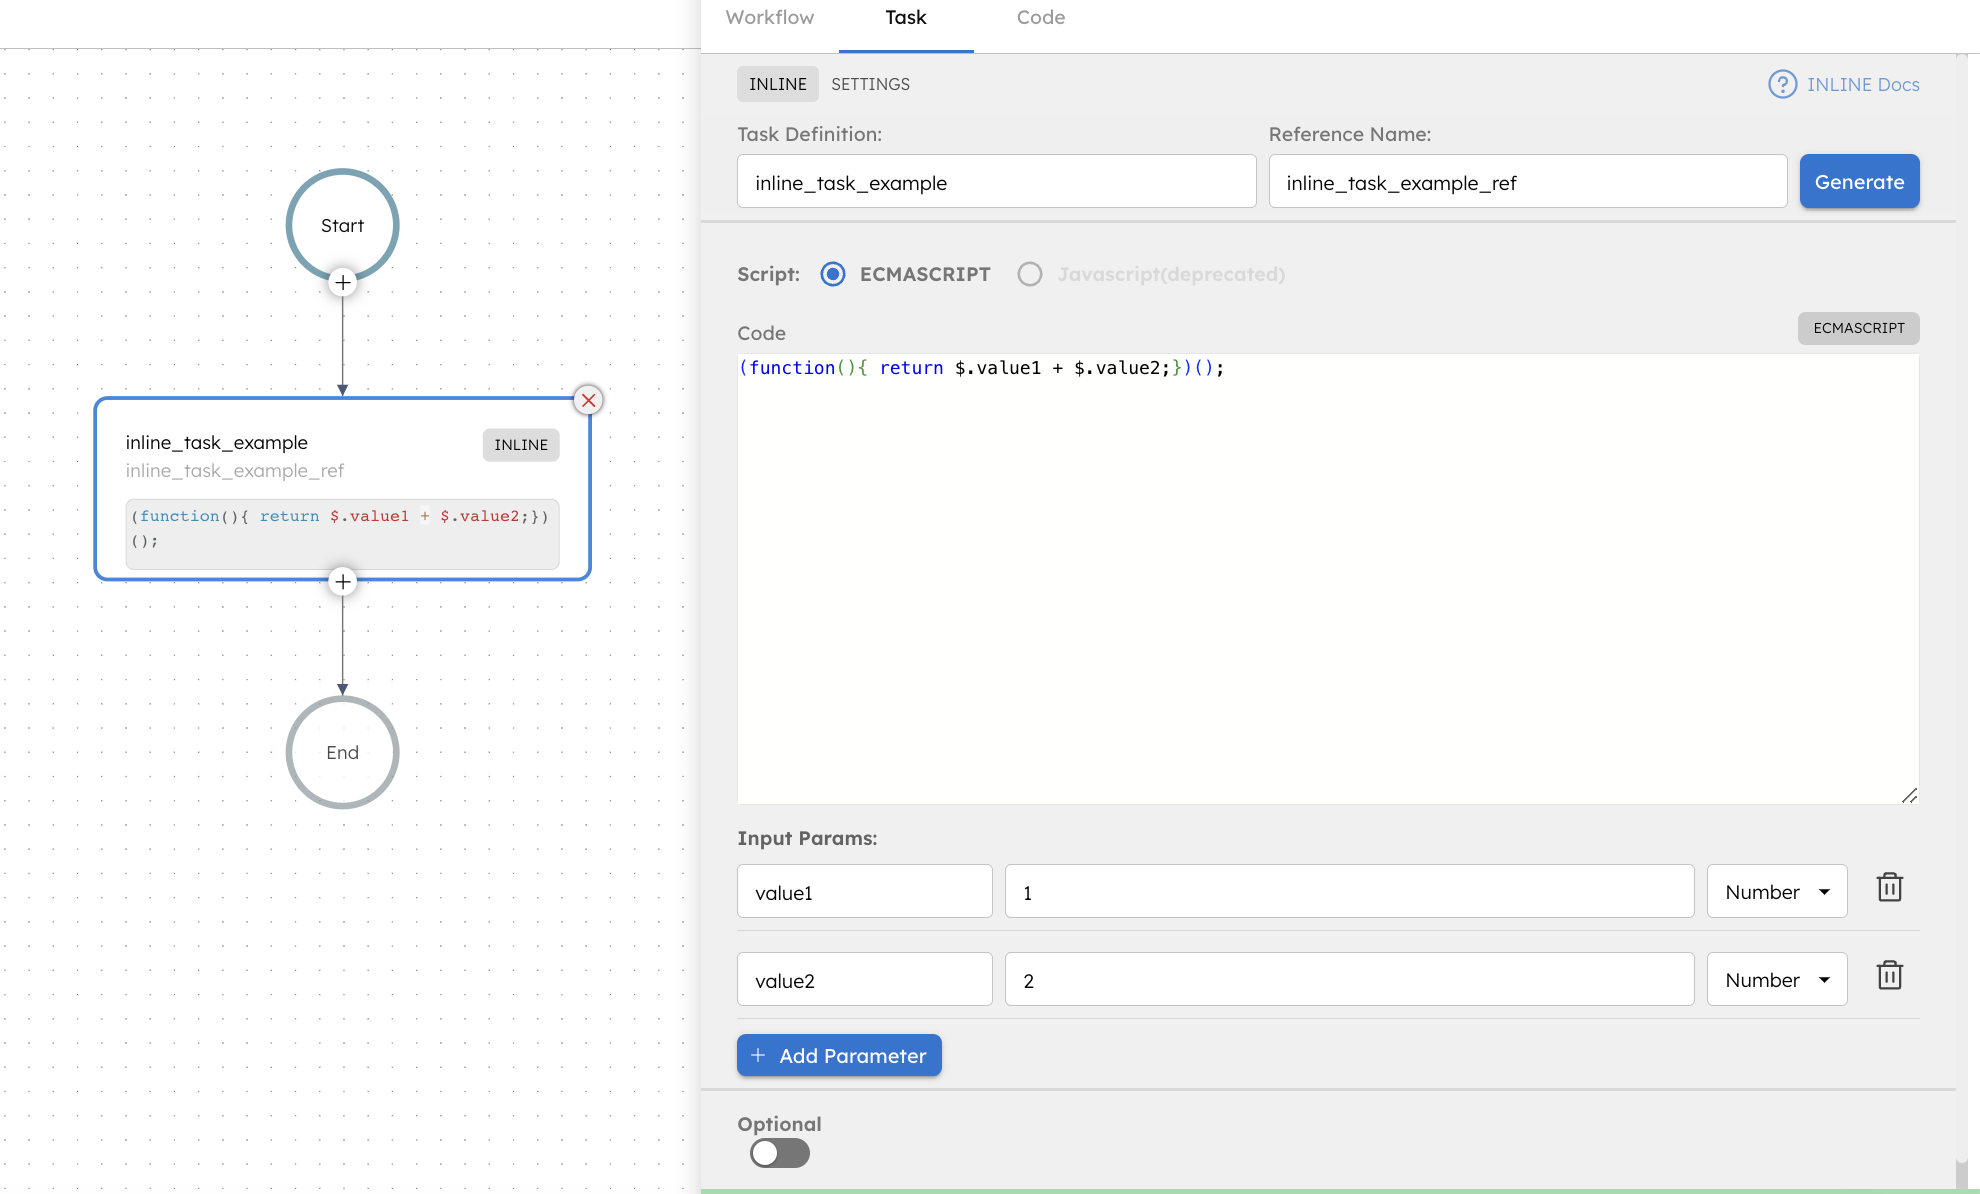
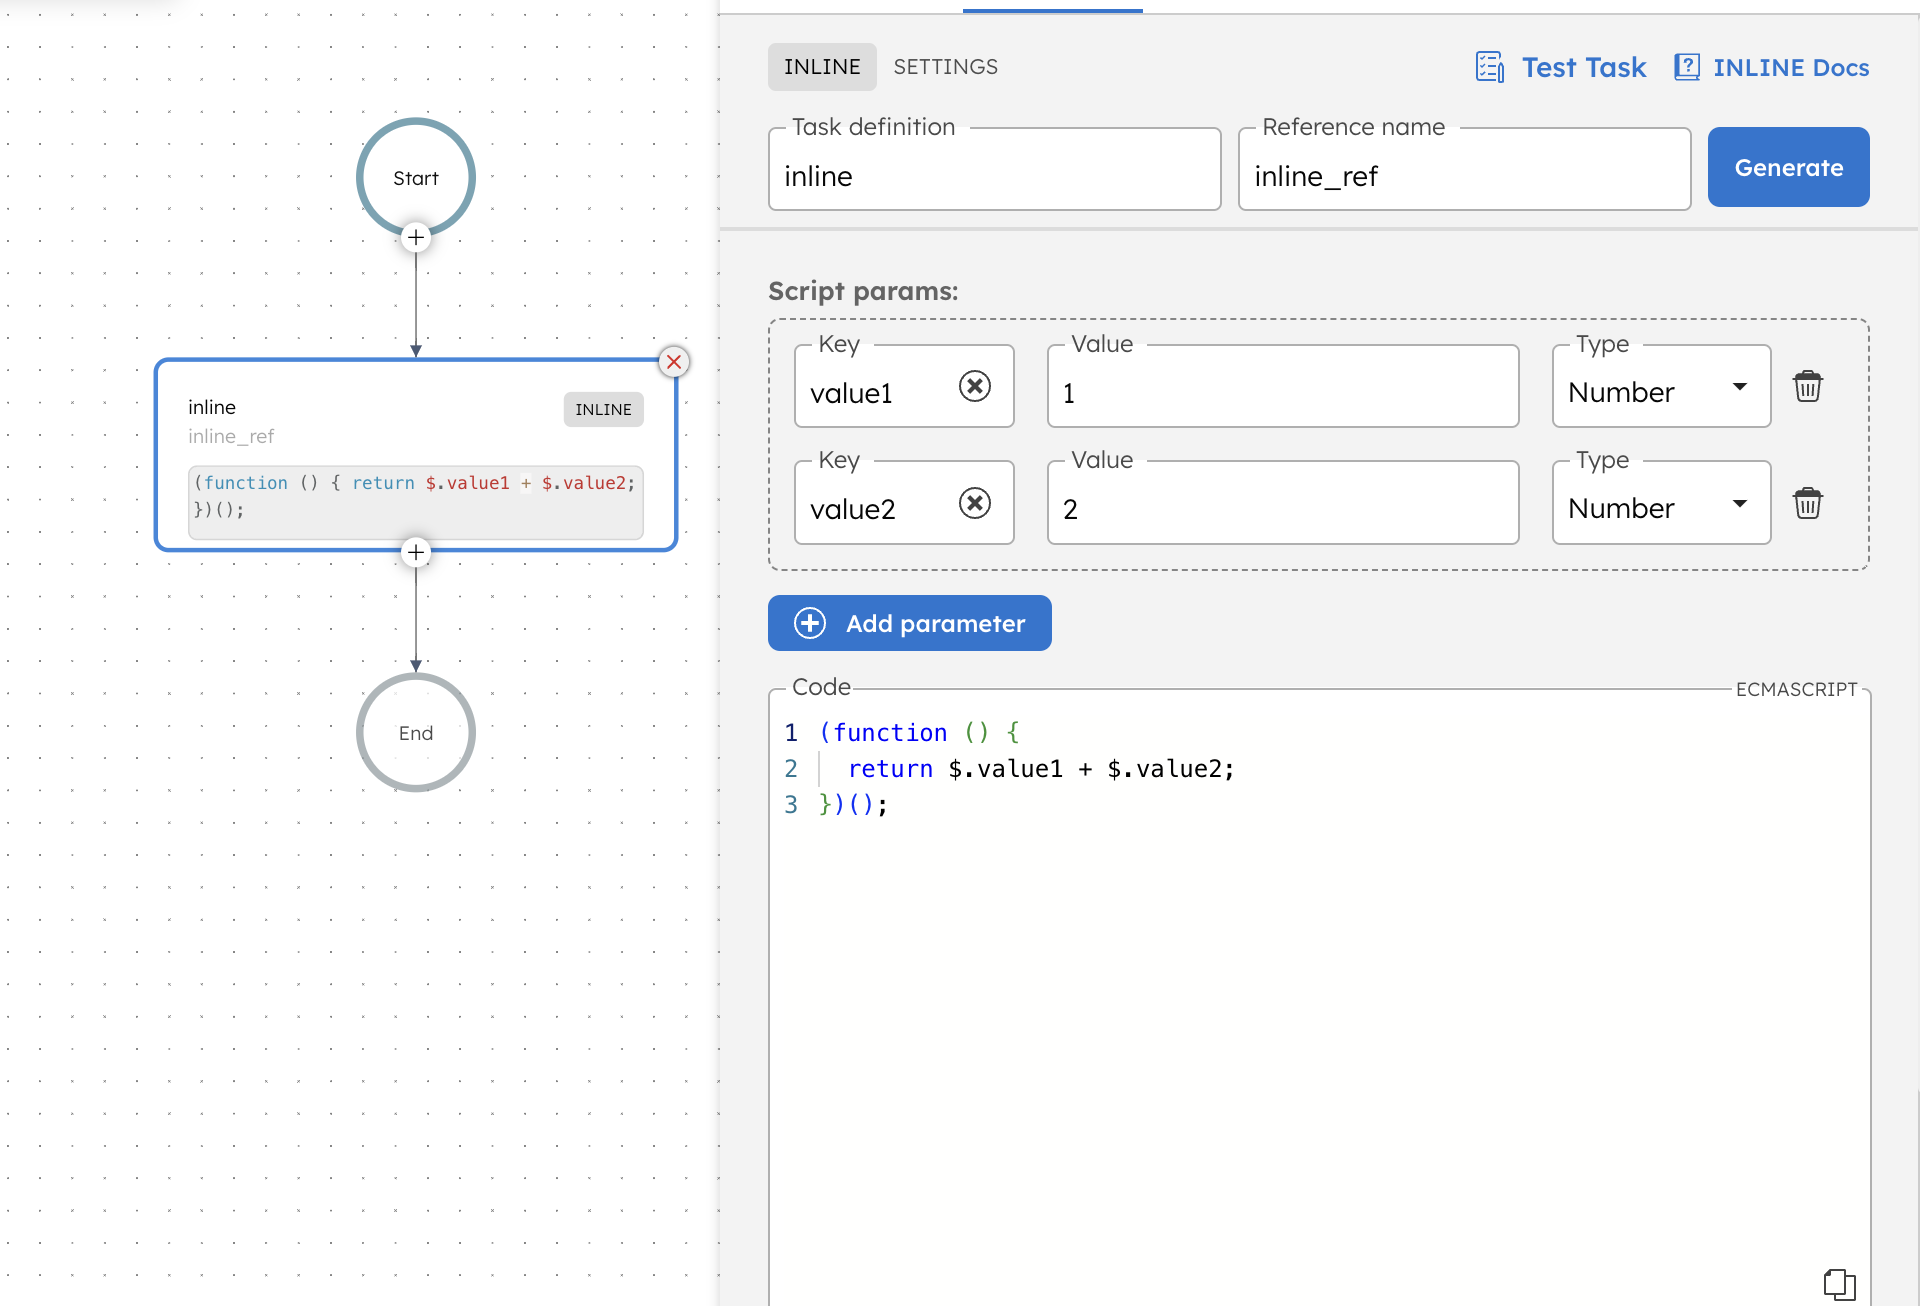
Inline doc update

diff --git a/docs/reference-docs/system-tasks/inline.md b/docs/reference-docs/system-tasks/inline.md
@@ -7,31 +7,36 @@ import TabItem from '@theme/TabItem';
 
 # Inline 
 
-The inline task helps execute necessary logic at the workflow run-time using an evaluator. The two supported evaluator types are javascript and graaljs.
+Inline tasks enable the execution of essential logic during workflow runtime by evaluating a JavaScript expression using an evaluator like GraalJS.
 
 ## Definitions
 ```json
-    {
-      "name": "inline_task_example",
-      "taskReferenceName": "inline_task_example_ref",
-      "type": "INLINE",
-      "inputParameters": {
-        "expression": "(function () {\n  return $.value1 + $.value2;\n})();",
-        "evaluatorType": "graaljs",
-        "value1": 1,
-        "value2": 2
-      }
-    }
+   {
+     "name": "inline",
+     "taskReferenceName": "inline_ref",
+     "type": "INLINE",
+     "inputParameters": {
+       "expression": "(function () {\n  return $.value1 + $.value2;\n})();",
+       "evaluatorType": "graaljs",
+       "value1": 1,
+       "value2": 2
+     }
+   }
 ```
 
 ### Input Parameters
 
-| Attribute     | Desciption                                                                                                                                                                                                                                                                            |
-|---------------|---------------------------------------------------------------------------------------------------------------------------------------------------------------------------------------------------------------------------------------------------------------------------------------|
-| evaluatorType | Choose the type of evaluator. Supported evaluators are **graaljs** & **javascript**. Graaljs evaluates the expression using graaljs, and javascript evaluates the expression using nashorn to compute the value.                                                                      |
-| expression    | Indicates the expression associated with the type of evaluator. For the javascript evaluator, the Javascript evaluation engine is used to evaluate the expression defined as a string. It must return a value. For the graaljs evaluator, graalvm is used to evaluate the expression. |
+| Attribute | Description |
+| --------- | ----------- |
+| expression | Specifies the JavaScript expression to be evaluated by the GraalJS evaluator. | 
+| evaluatorType | Supports GraalJS evaluator. | 
+| Script params | Provide the parameters for evaluating the script. Any properties can be accessed as **$.value** for the expression to evaluate. | 
 
-Besides the expression, any of the properties in the input values is accessible as **$.value** for the expression to evaluate.
+### Output Parameters
+
+| Attribute | Description |
+| --------- | ----------- |
+| result | Returns the results of the evaluated script. | 
 
 ## Examples
 
@@ -45,8 +50,8 @@ Besides the expression, any of the properties in the input values is accessible 
 <br/>
 <br/>
 
-1. Add task type `Inline`.
-2. Write the inline script using Javascript.
+1. Add task type **Inline**.
+2. Write the inline ECMAScript.
 
 </div>
 <div className="col">
@@ -64,22 +69,22 @@ Besides the expression, any of the properties in the input values is accessible 
  <TabItem value="JSON" label="JSON">
 
 ```json
-    {
-      "name": "inline_task_example",
-      "taskReferenceName": "inline_task_example_ref",
-      "type": "INLINE",
-      "inputParameters": {
-        "expression": "(function () {\n  return $.value1 + $.value2;\n})();",
-        "evaluatorType": "graaljs",
-        "value1": 1,
-        "value2": 2
-      }
-    }
+   {
+     "name": "inline",
+     "taskReferenceName": "inline_ref",
+     "type": "INLINE",
+     "inputParameters": {
+       "expression": "(function () {\n  return $.value1 + $.value2;\n})();",
+       "evaluatorType": "graaljs",
+       "value1": 1,
+       "value2": 2
+     }
+   }
 ```
 
 </TabItem>
 </Tabs>
 
-:::tip
-The JSON definition shows a string format of the script; however, on the UI, it will retain the formatting we used and is more readable.
+:::info
+The JSON definition provides a concise string representation of the script. In contrast, the UI representation typically includes formatted indentation and line breaks for better user readability.
 :::
